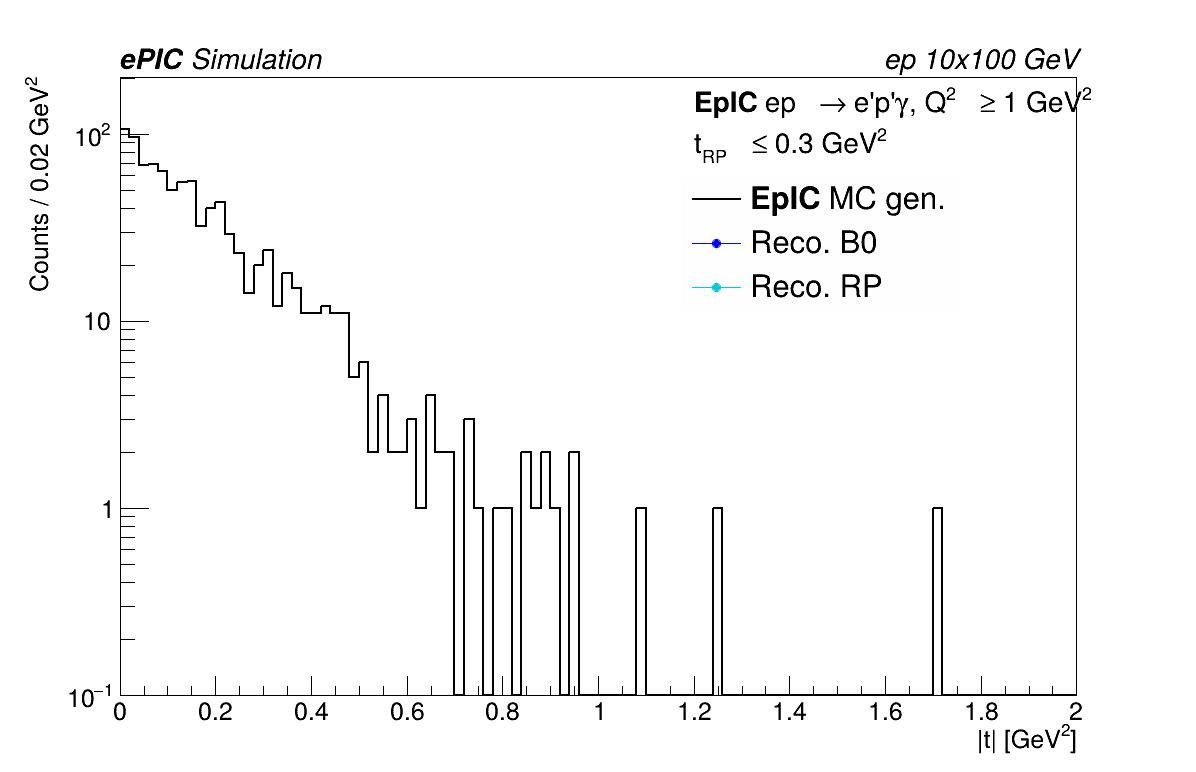
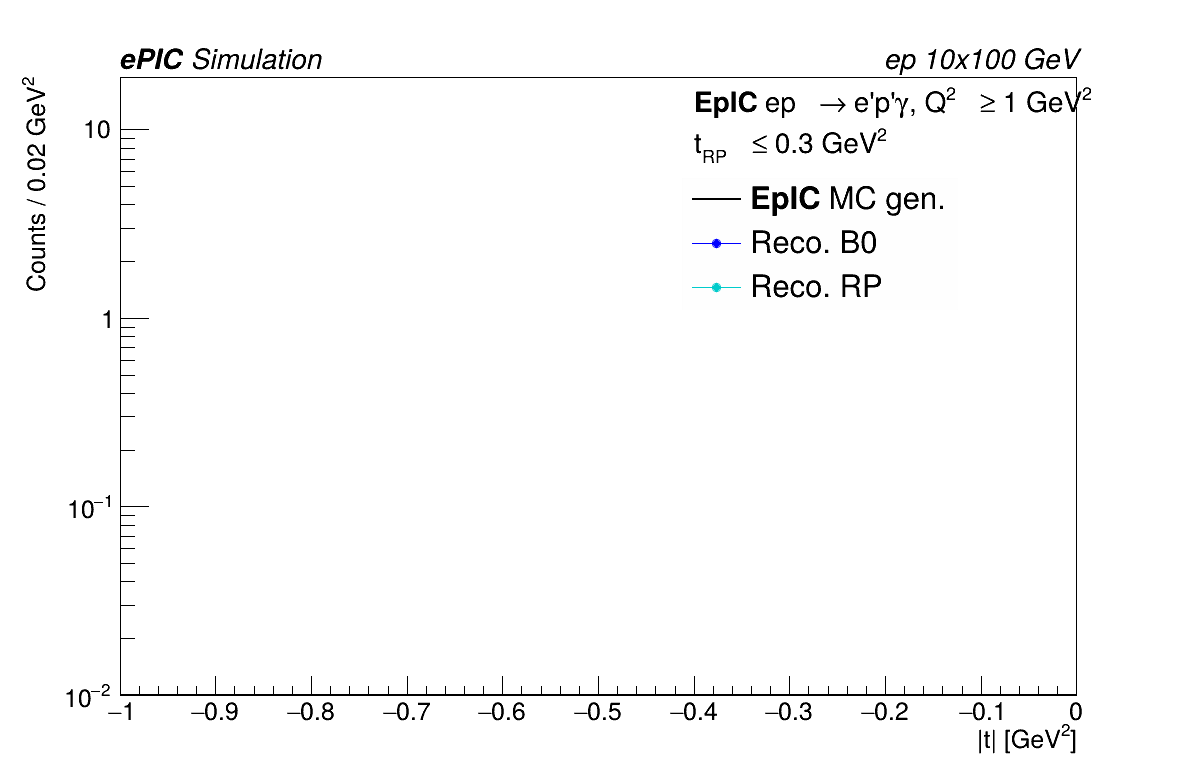
adding some hists from old code

diff --git a/DDIS_TDR.cpp b/DDIS_TDR.cpp
@@ -75,12 +75,33 @@ void DDIS_TDR(TString fileList){
   TH1D* h_eta_RPp  = new TH1D("eta_RPp",";#eta_{p'}(Reco)", 275, -11.0, 11.0);
   TH1D* h_eta_RPPp = new TH1D("eta_RPPp",";#eta_{p'}(Reco)", 275, -11.0, 11.0);
   // t distributions
-  TH1D* h_t_MC     = new TH1D("t_MC"   , ";|t|(MC) [(GeV/c^{2})^{2}]"  , 100, 0.0, 2.0);
+  //TH1D* h_t_MC     = new TH1D("t_MC"   , ";|t|(MC) [(GeV/c^{2})^{2}]"  , 100, 0.0, 2.0);
   TH1D* h_t_RP     = new TH1D("t_RP"    , ";|t|(Reco) [(GeV/c^{2})^{2}]"  , 100, 0.0, 2.0);
   TH1D* h_t_RPP    = new TH1D("t_RPP"   , ";|t|(Reco) [(GeV/c^{2})^{2}]"  , 100, 0.0, 2.0);
   // Photon angluar resolutions
   TH1D* h_PhotRes_theta   = new TH1D("photres_theta",";#theta_{#gamma}(Reco)-#theta_{#gamma}(MC) [rad]",600,-1.5,1.5);
   TH2D* h_PhotRes2D_theta = new TH2D("photres2d_theta",";#theta_{#gamma, MC} [rad]; #delta#theta_{#gamma}",320,0,3.2,600,-1.5,1.5);
+
+  // MY histograms
+  //events Kinematics MC as I calculated
+  TH1D* h_Q2_e     = new TH1D("h_Q2_e",";Q^{2}",100,0,20);
+  TH1D* h_y_e      = new TH1D("h_y_e",";y_{e,MC}",100,0,1);
+  TH1D* h_x_e      = new TH1D("h_x_e",";x_{e,MC}",30,0,0.15);
+  TH1D* h_t_MC     = new TH1D("h_t_MC",";t_{MC}; counts",100,-1,0);
+  // using the electron method
+  TH1D* h_Q2_e_m   = new TH1D("h_Q2_e_m",";Q^{2}",100,0,20);
+  TH1D* h_y_e_m    = new TH1D("h_y_e_m",";y_{e,MC}",100,0,1);
+  TH1D* h_x_e_m    = new TH1D("h_x_e_m",";x_{e,MC}",30,0,0.15);
+  // Kinematic MC Truth from branches 
+  TH1D* h_y_truth  = new TH1D("h_y_truth","y_{truth}",100,0,1);
+  TH1D* h_x_truth  = new TH1D("h_x_truth","x_{truth}",30,0,0.15);
+  TH1D* h_Q2_truth = new TH1D("h_Q2_truth","Q^2",100,0,20);
+
+
+  // Kinematic Reconstructed
+  TH1D* h_Q2REC_e        = new TH1D("h_Q2REC_e",";Q^{2}_{e,REC}",100,0,20);
+  TH1D* h_yREC_e         = new TH1D("h_yREC_e",";y_{e,REC}",100,0,1);
+
 
   //---------------------------------------------------------
   // DECLARE TTREEREADER AND BRANCHES TO USE
